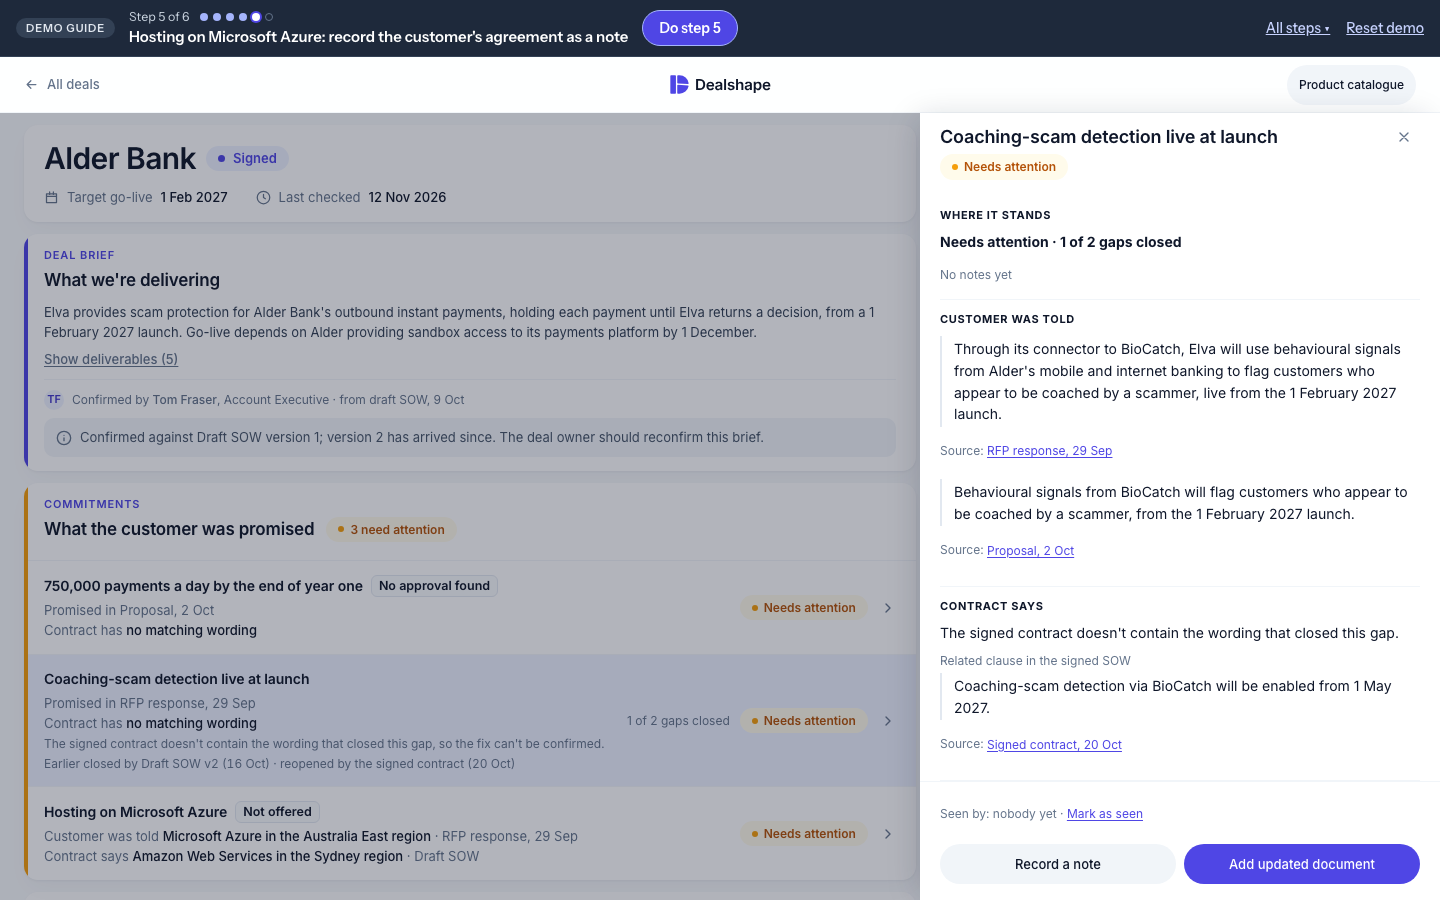
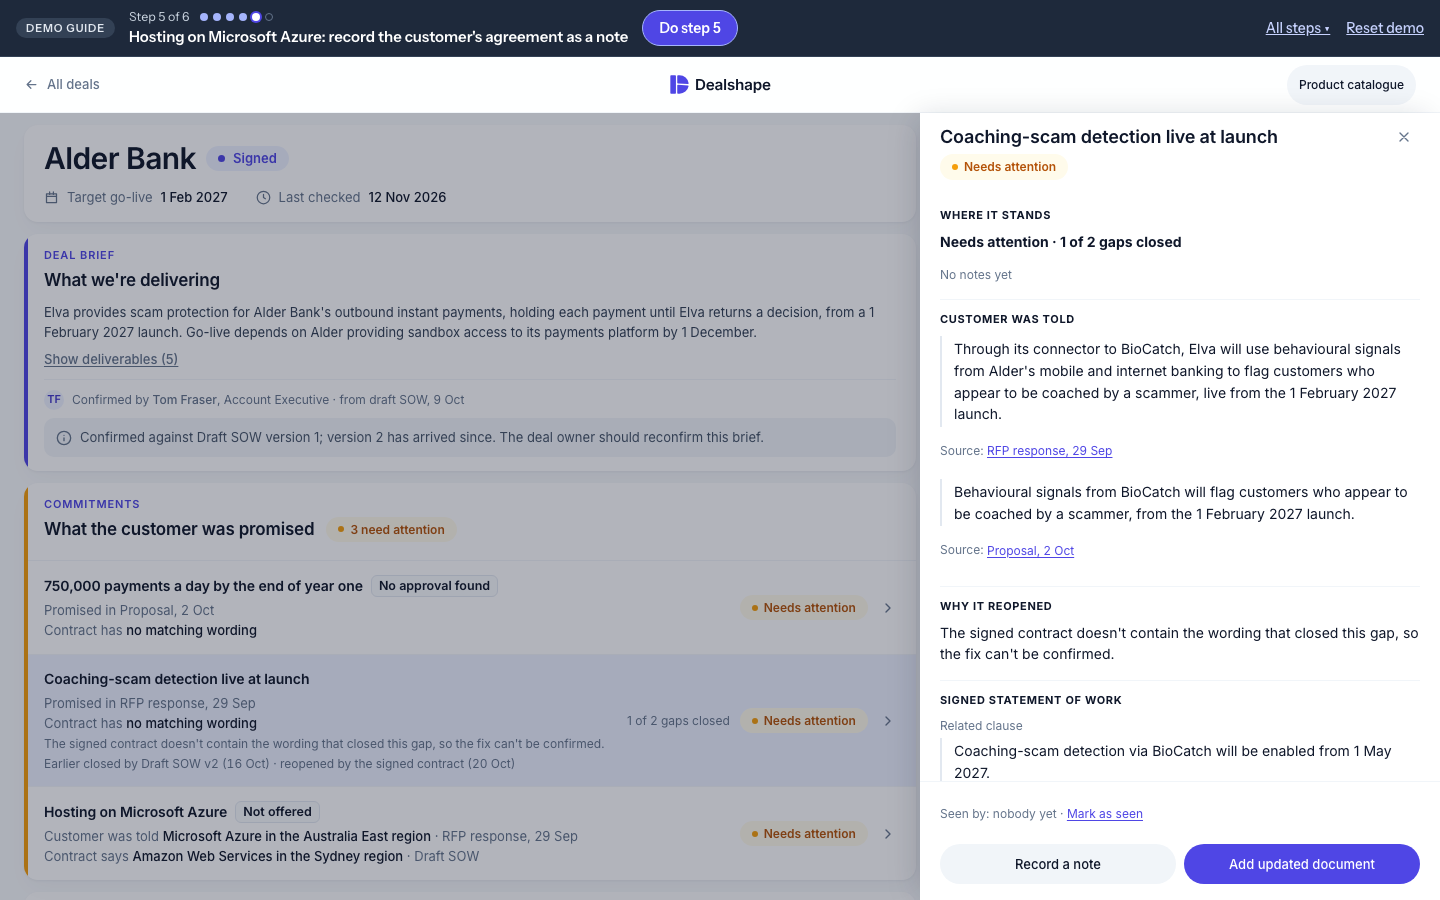
Round 4: reopened findings show cause before evidence

Changed region(s): [[0.6562, 0.7156, 0.9688, 0.8711], [0.6562, 0.6533, 0.7188, 0.6844]]

diff --git a/frontend/src/dealpage.js b/frontend/src/dealpage.js
@@ -743,6 +743,14 @@ export function relatedClauseOf(issues, documents) {
   return { quote: r.sentence, label: r.label, date: sc.signed_date, in: r.in === "signed SOW" ? "signed SOW" : "signed contract", doc };
 }
 
+// 12 Nov, round 4: for a gap the signed paperwork reopened the drawer and the record put the cause first, then the evidence: "Why it reopened" is the check's own reason sentence,
+// unchanged, and the related clause follows under a heading that names where it sits. Nothing here decides anything.
+export const reopenedReason = (issues) => reopenedBySigned(issues).map((i) => i.signed_check.reason).find(Boolean) ?? "";
+export const relatedHeading = (r) => (r?.in === "signed SOW" ? "Signed statement of work" : "Signed contract");
+// What we found drops the finding label and the repeated reason of a reopened gap (the label, "Not in the draft contract or SOW: …", is not true of it: the revised draft had the wording).
+const hideReopened = (rows, issues) => rows.map((f, k) => (issues[k]?.signed_check?.status === "not_found" ? { ...f, label: "", fact: "" } : f));
+const visibleRows = (rows) => rows.filter((f) => f.label || f.fact);
+
 // The same clause for the locked record (12 Nov): the server finds it at request time from the signed text the record holds ("related_clauses" beside the snapshot, keyed
 // "<promise>|<finding>"), so nothing is added to the saved record or its fingerprint.
 export function relatedFromRecord(map, promise, findings, documents) {
@@ -818,7 +826,7 @@ function evidenceFields({ status, issues, unresolved, closedIssues, documents, s
 export function groupNotOffered(found, issues) {
   const at = (issues ?? []).findIndex((i) => i.finding === "Not offered");
   if (at < 0 || found.length < 2) return found;
-  return [{ ...found[at], sub: found.filter((_, k) => k !== at).map((f) => `${f.label}${f.fact ? ` ${f.fact}` : ""}`.trim()) }];
+  return [{ ...found[at], sub: found.filter((_, k) => k !== at).map((f) => `${f.label}${f.fact ? ` ${f.fact}` : ""}`.trim()).filter(Boolean) }];
 }
 
 // One commitment, as the drawer shows it. status: "open" | "noted" | "closed".
@@ -830,7 +838,7 @@ export function commitmentView(c, status, documents) {
   const side = contractSide(unresolved, c.contract); // a closed commitment has no open contract finding: its short term stands alone
   // A gap the signed contract reopened no longer has contract wording that closes it: the draft wording that closed it earlier is in the history, not under "Contract says" (11 Nov).
   const reopenedBySignedPaper = unresolved.some((i) => i.signed_check?.status === "not_found");
-  const contract = contractView(c.contract, side, documents, reopenedBySignedPaper ? null : c.contract_now, missingPhrases(unresolved), reopenedBySignedPaper);
+  const contract = contractView(c.contract, side, documents, reopenedBySignedPaper ? null : c.contract_now, missingPhrases(unresolved));
   const notes = [];
   if (noteRes) notes.push({ by: noteRes.by, at: noteRes.at, text: noteRes.reason, kind: status === "noted" ? "addressed" : "reopened" });
   for (const d of new Map(unresolved.filter((i) => i.decision && i.decision.status !== "none").map((i) => [`${i.decision.by}|${i.decision.reason}`, i.decision])).values()) {
@@ -841,8 +849,9 @@ export function commitmentView(c, status, documents) {
     first: firstPromised(c.statements, c.first_found), toldLine: toldParts(status === "closed" ? [] : unresolved, c.statements, c.first_found), mismatch: mismatchParts(unresolved, c.contract), badges: promiseLabels(unresolved), plain: mismatchLine(unresolved, c.contract),
     told: toldQuotesWithDocs(c.statements, documents),
     contract,
-    found: status === "closed" ? [] : groupNotOffered(withoutRepeats(unresolved.map((i) => ({ label: findingDetail(i, c.contract),
-      fact: i.signed_check?.status === "not_found" ? i.signed_check.reason : gapLine(i.finding, i.evidence, i.catalogue_path) })), contract), unresolved),
+    found: status === "closed" ? [] : visibleRows(groupNotOffered(hideReopened(withoutRepeats(unresolved.map((i) => ({ label: findingDetail(i, c.contract),
+      fact: i.signed_check?.status === "not_found" ? i.signed_check.reason : gapLine(i.finding, i.evidence, i.catalogue_path) })), contract), unresolved), unresolved)),
+    reopened: reopenedBySignedPaper, whyReopened: reopenedReason(unresolved),
     earlier: reopenedBySigned(unresolved).map((i) => earlierLine(i.signed_check, documents)).filter(Boolean),
     signedLines: signedConfirmations(closedIssues.map((i) => i.signed_check)),
     reopenedLines: reopenedLines(unresolved, documents),
@@ -884,13 +893,11 @@ export const missingPhrases = (issues) => [...new Set((issues ?? []).flatMap((i)
 // The contract side of a commitment. With a contract quote AND a missing-wording finding (a conflict and a gap on one promise), the
 // quote comes first and the missing line says what was searched for, so the two never read as a contradiction (20 Oct). `now` is the
 // contract wording found by lookup for a closed gap; it is labelled as a lookup, never as why the gap closed.
-// 12 Nov: a gap the signed paperwork reopened says so under "Contract says": the revised draft did contain the wording, so "No matching wording found in the draft contract or SOW" would be wrong.
-export const REOPENED_CONTRACT_LINE = "The signed contract doesn't contain the wording that closed this gap.";
-function contractView(term, side, documents, now = null, searched = [], reopened = false) {
+function contractView(term, side, documents, now = null, searched = []) {
   const quote = side.quote ? { quote: side.quote, label: side.source, doc: matchDoc(documents, [side.source], null) } : null;
   const missing = side.missing ?? (quote && searched.length ? searched : null);
   return {
-    text: quote && missing ? "" : reopened && term === "Not included" ? REOPENED_CONTRACT_LINE : contractText(term),
+    text: quote && missing ? "" : contractText(term),
     quote,
     missing,
     missingLabel: quote && missing ? "No matching wording found for" : "Searched for:",
@@ -920,7 +927,7 @@ export function frozenView({ item, status, closedFindings = [], documents = [], 
   const addressed = findings.find((f) => f.resolved_by_note)?.resolved_by_note;
   if (addressed) notes.push({ by: addressed.by, at: addressed.at, text: addressed.reason, kind: "addressed" });
   const seenAll = findings.flatMap((f) => f.seen ?? []);
-  const contract = contractView(item.contract, side, documents, issues.some((i) => i.signed_check?.status === "not_found") ? null : item.contract_now, missingPhrases(findings), issues.some((i) => i.signed_check?.status === "not_found"));
+  const contract = contractView(item.contract, side, documents, issues.some((i) => i.signed_check?.status === "not_found") ? null : item.contract_now, missingPhrases(findings));
   const title = titles[name] || name;
   return {
     key: name, title, extracted: titles[name] && titles[name] !== name ? name : "", status,
@@ -928,8 +935,9 @@ export function frozenView({ item, status, closedFindings = [], documents = [], 
     told: quoted.length ? quoted.map((q) => ({ quote: q.quote, label: q.source, date: q.date ?? "", doc: matchDoc(documents, [q.source], q.date) })) : [],
     toldFallback: item.told ?? "",
     contract,
-    found: groupNotOffered(withoutRepeats(issues.map((i, n) => ({ label: findingDetail(i, item.contract),
-      fact: i.signed_check?.status === "not_found" ? i.signed_check.reason : gapLine(i.finding, i.evidence, i.catalogue_path) })), contract), issues),
+    found: visibleRows(groupNotOffered(hideReopened(withoutRepeats(issues.map((i, n) => ({ label: findingDetail(i, item.contract),
+      fact: i.signed_check?.status === "not_found" ? i.signed_check.reason : gapLine(i.finding, i.evidence, i.catalogue_path) })), contract), issues), issues)),
+    reopened: issues.some((i) => i.signed_check?.status === "not_found"), whyReopened: reopenedReason(issues),
     notOffered: (() => { const n = issues.find((i) => i.finding === "Not offered"); return n ? { capability: n.evidence?.unlisted_value ?? "",
       wording: issues.map((i) => i.evidence?.contract_value).find(Boolean) || (/^(Not included|No gap found|)$/.test(item.contract ?? "") ? "" : item.contract) } : null; })(),
     earlier: reopenedBySigned(issues).map((i) => earlierLine(i.signed_check, snapshotDocs ?? documents)).filter(Boolean),
@@ -991,11 +999,12 @@ export function recordLines(v, documents = []) {
   const quoteLine = (q, label, date) => `\u201C${q}\u201D (${label}${date ? `, ${short(date)}` : ""})`;
   const told = v.told.length ? v.told.map((t) => quoteLine(t.quote, t.label, t.date)) : v.toldFallback ? [v.toldFallback] : [];
   let contract = "";
+  const why = v.reopened ? v.whyReopened : ""; // 12 Nov, round 4: a reopened gap reads cause first ("Why it reopened"), then the related clause; no "Contract says" line
   // A commitment confirmed in the signed contract shows the signed clause, attributed to the signed contract with its date; the draft attribution goes (12 Nov).
   if (v.signed?.quote) contract = quoteLine(v.signed.quote, v.signed.label, v.signed.date);
   else if (v.contract.now?.quote) contract = quoteLine(v.contract.now.quote, v.contract.now.label);
   else if (v.contract.quote) contract = quoteLine(v.contract.quote.quote, v.contract.quote.label);
-  else if (v.contract.text && !/^No gap found/.test(v.contract.text)) contract = v.contract.text;
+  else if (v.contract.text && !/^No gap found/.test(v.contract.text) && !v.reopened) contract = v.contract.text;
   // A commitment with some gaps closed and others open says both, per gap ("Approval: closed by Internal approvals note v2 (18 Oct)", "Not in the contract: still open"),
   // so a closed line next to "Needs attention" is never read as resolved. A commitment with nothing closed shows its gap lines; one with everything closed
   // reads "Closed by <document> v<N> (<date>) · confirmed in the signed contract (<date>)".
@@ -1015,6 +1024,6 @@ export function recordLines(v, documents = []) {
   const settled = closedSettled(v, documents);
   if (partly) for (const g of v.openGaps) settled.push(`${g}: still open`);
   for (const n of v.notes) settled.push(`${recordedBy(n.by, n.at, fmtDate)}: \u201C${n.text}\u201D`);
-  const related = v.related ? { in: v.related.in, text: quoteLine(v.related.quote, v.related.label, v.related.date), doc: v.related.doc, quote: v.related.quote } : null;
-  return { told, contract, gaps, settled, related };
+  const related = v.related ? { in: v.related.in, heading: relatedHeading(v.related), text: quoteLine(v.related.quote, v.related.label, v.related.date), doc: v.related.doc, quote: v.related.quote } : null;
+  return { told, contract, why, gaps, settled, related };
 }

diff --git a/frontend/src/Drawer.jsx b/frontend/src/Drawer.jsx
@@ -3,7 +3,7 @@
 import { useEffect, useMemo, useRef, useState } from "react";
 import * as api from "./api.js";
 import { fmtDate, fmtDateTime } from "./format.js";
-import { STAGE_LABELS, STATUS_CHIP, alsoIn, closedSettled, plainName, recordedBy, short } from "./dealpage.js";
+import { STAGE_LABELS, STATUS_CHIP, alsoIn, closedSettled, plainName, recordedBy, relatedHeading, short } from "./dealpage.js";
 import { renderDocument } from "./markdown.js";
 import { shortHash, verifyText } from "./docHash.js";
 
@@ -137,6 +137,25 @@ export function CommitmentView({ v, documents = [], titleId, readOnly, me = "", 
           {!v.told.length && (v.toldFallback ? <p className="dr-plain">{v.toldFallback}</p> : <p className="dr-muted">No checked quote is stored for this commitment.</p>)}
         </section>
 
+        {v.reopened ? (
+          <>
+            {/* 12 Nov, round 4: a gap the signed paperwork reopened shows its cause first (the check's own reason, unchanged), then the evidence: the related clause, under a heading that names where it sits. */}
+            <section className="dr-sec">
+              <h3 className="dr-label">Why it reopened</h3>
+              <p className="dr-plain">{v.whyReopened}</p>
+            </section>
+            {v.related && (
+              <section className="dr-sec">
+                <h3 className="dr-label">{relatedHeading(v.related)}</h3>
+                <div className="dr-block dr-related">
+                  <span className="dr-muted">Related clause</span>
+                  <blockquote className="dr-quote">{v.related.quote}</blockquote>
+                  <Source label={v.related.label} date={v.related.date} doc={v.related.doc} onOpen={() => onOpenDoc?.(v.related.doc, v.related.quote)} />
+                </div>
+              </section>
+            )}
+          </>
+        ) : (
         <section className="dr-sec">
           <h3 className="dr-label">Contract says</h3>
           {v.signed ? (
@@ -163,14 +182,8 @@ export function CommitmentView({ v, documents = [], titleId, readOnly, me = "", 
               )}
             </>
           )}
-          {v.related && (
-            <div className="dr-block dr-related">
-              <span className="dr-muted">Related clause in the {v.related.in}</span>
-              <blockquote className="dr-quote">{v.related.quote}</blockquote>
-              <Source label={v.related.label} date={v.related.date} doc={v.related.doc} onOpen={() => onOpenDoc?.(v.related.doc, v.related.quote)} />
-            </div>
-          )}
         </section>
+        )}
 
         <section className="dr-sec">
           <h3 className="dr-label">{v.status === "closed" ? "What closed it" : "What we found"}</h3>

diff --git a/frontend/src/FrozenRecord.jsx b/frontend/src/FrozenRecord.jsx
@@ -59,8 +59,9 @@ export function RecordDetail({ v, documents, onOpenDoc }) {
           {v.signed?.doc && onOpenDoc && <>{" "}<button type="button" className="dr-linkbtn fr-noprint" onClick={(e) => { e.stopPropagation(); onOpenDoc(v.signed.doc, v.signed.quote); }}>Open the signed clause</button></>}
         </p>
       )}
+      {r.why && <p className="fr-why"><strong>Why it reopened:</strong> {r.why}</p>}
       {r.related && (
-        <p className="fr-related"><strong>Related clause in the {r.related.in}:</strong> {r.related.text}
+        <p className="fr-related"><strong>{r.related.heading}</strong> · Related clause: {r.related.text}
           {r.related.doc && onOpenDoc && <>{" "}<button type="button" className="dr-linkbtn fr-noprint" onClick={(e) => { e.stopPropagation(); onOpenDoc(r.related.doc, r.related.quote); }}>Open the clause</button></>}
         </p>
       )}

diff --git a/DECISIONS.md b/DECISIONS.md
@@ -1569,3 +1569,12 @@ Public mode only; no file is edited. The preview is now a formatted, read-only d
 - **Locked record, screen and print.** The related clause is found at display time from the signed document text the record already holds: `signed_check.related_for_record` is read at request time by `handover.handover()` and returned beside the snapshot as `related_clauses` (like `display_names`), keyed "<promise>|<finding>". A signed document counts only if its stored text still hashes to the SHA-256 the record saved for it; a record locked before the hashes were stored shows nothing extra. The record shows "Related clause in the signed SOW: “…” (Signed contract, 20 Oct)" under Contract says, in one markup for screen and print; the "Open the clause" link is screen-only.
 - **Snapshot and fingerprint untouched.** `build_snapshot` and `complete` are unchanged and the snapshot still copies four signed-check fields; no field was added. Proved for a freshly locked Alder record: with the lookup and with it switched off the fingerprint is the same (eb26c260…b1b9 in the check run; it varies between locks only by the notes' minute stamps), the two snapshots are equal, the stored text contains no related field and none of the signed text. Two separate fresh locks are identical apart from those stamps. This is a regression test.
 - **Checked:** Python 859 tests OK (855 + 4 in `tests/test_signed_reopen_alder.py`), frontend 289 pass (286 + 3 in `tests/evidence.test.mjs`; three pinned wordings updated). SHA-256 before and after: only `data/scenarios/AB-09_signed_contract.md`, `public_demo.py` (round 3) and `handover.py` (read-time field only) differ; engine and ledger-build files, `detect_v2.py`, `api.py`, `workspace.py`, `config.py`, `signed_check.py` is not in the hashed list and changed (display lookup only), `results/v2_cache`, the other scenarios, the sealed data and your real ledger are identical. Screenshots in `docs/screens/2026-11-12/`: `alder_reopened_drawer_1440` (re-taken) and `alder_locked_record_print_1440` (print media, full page).
+
+## 12 Nov 2026: Round 4 — reopened finding: cause before evidence
+
+- **What.** Round 4 replaces the Round 3 shortened reopen line in "Contract says" ("The signed contract doesn't contain the wording that closed this gap.", a UI string) with "Why it reopened", the check's own reason, unchanged ("The signed contract doesn't contain the wording that closed this gap, so the fix can't be confirmed."), followed by the related clause. Cause is shown before evidence. The drawer's reopened finding now reads: Where it stands, Customer was told, **Why it reopened**, **Signed statement of work** (sub-label "Related clause", the clause and its source link; omitted when no clause is found), What we found, History. The heading follows the clause's source: "Signed statement of work" for SOW clauses, "Signed contract" otherwise; the "Related clause" sub-label stays in both.
+- **Why.** The old order (reopen sentence, then "Related clause in the signed SOW" under "Contract says") let a reader assume the app compared dates or terms. It did not: `signed_check` only looks for the exact closing sentence in the signed text. The related clause is evidence shown beside the cause, not the cause.
+- **False label hidden.** On a reopened finding "What we found" no longer shows the finding label ("Not in the draft contract or SOW: …"), which is false for it (the revised draft contained the wording), and no longer repeats the reason (it appeared there and under "Contract says"). Not reworded. Other states keep the label, "Contract says" and "What we found" as before; "Signed contract: checked only for earlier fixes." is left as it was.
+- **Locked record (screen and print).** The compact lines match: "Why it reopened: <reason>", then "<heading> · Related clause: “…” (Signed contract, 20 Oct)"; no "Contract says" line for a reopened gap. The "Open the clause" link is screen-only. The record's drawer is the same component and changes the same way. Display strings only.
[1 lines of base64/hex data omitted]
+- **Checked:** Python 859 tests OK (no change), frontend 289 pass (the same count: four Round 3 tests replaced by four Round 4 tests; assertions updated in three dealpage tests. The new tests are in `tests/evidence.test.mjs` and cover reopened with a clause, reopened without a clause, non-reopened unchanged, the hidden label, the heading rule and the locked-record order). Screenshots re-taken in `docs/screens/2026-11-12/`: `alder_reopened_drawer_1440` and `alder_locked_record_print_1440`.
